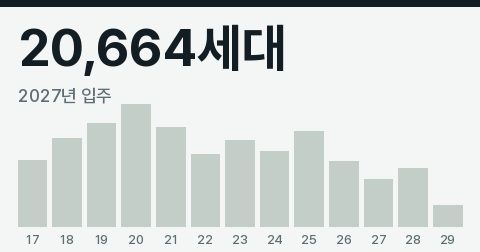
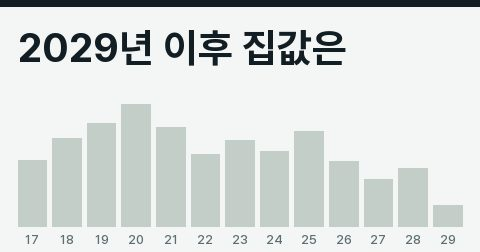
반박 썸네일을 인용구형으로 통일 — 그 섹션은 숫자를 쓰지 않는다
총괄 결정(10-30). 반박 4편 중 반도체 글만 제목에 따옴표가 없어 '20,664세대' 숫자형으로
떨어졌고, 나머지 셋은 인용구형이라 한 섹션 안에서 모양이 갈렸다. 따지는 글이라 발언이 먼저
보여야 하므로 반박 편은 늘 글자로 간다.

규칙은 thumb_caption 한 곳에 모았다. 제목에 따옴표 안 발언이 있으면 그것을 따옴표째, 없으면
쉼표 앞 구절을 따옴표 없이 같은 모양으로 넣는다. 앞 구절을 글자 수로만 자르면 '삼성·하이닉'
처럼 낱말이 토막 나므로 어절 경계에서 끊는다(LEAD_MAX 14자, 총괄은 12자 안팎을 말했다).

draw_thumb 은 cap 이 있으면 big 을 그리지 않는다 — 글자와 숫자가 한 그림에 섞이지 않게.

시험 하나로 고정했고 변이 셋으로 확인했다: 따옴표 없는 글을 다시 숫자로 떨어뜨리면, 앞 구절을
글자 수로 자르면, 인용에서 따옴표를 떼면 빨개진다.

diff --git a/home-stats.js b/home-stats.js
@@ -10,7 +10,7 @@
    도구·시험은 이 파일을 직접 열지 말고 tools/home_src.py 의 home_source() 로 읽는다(홈 스크립트에 이어 붙어 온다). */
 /* 판 표식 — home-app.js HOME_BUILD·sw.js VERSION 과 같은 값(test_home_build). 받은 뒤 홈이 견줘 다르면 한 번 새로고침한다
    (partBuildOk: 열어 둔 옛 판 탭이 배포 뒤 ?v=옛판 주소로 새 판 파일을 받는 경우). VERSION 을 올리면 여기도 같이. */
-var HOME_STATS_BUILD='v208';
+var HOME_STATS_BUILD='v209';
 /* 착공→준공 시차별 연결 강도(r) — rebuild_cycle_analysis.link45_leadtime 과 **같은 계산**(전국 착공·준공 12개월 이동평균,
    과거 = 2018.01 앞 착공, 최근 = 그 뒤)을 시차 20~50개월에 펼친 곡선. 봉우리(최강 시차)는 박지 않고 곡선에서 찾는다
    (leadPeak) — 예전엔 옛 분석값 peak_old [27,0.96] 을 따로 박아 같은 화면 주석(28개월)·정본과 갈렸다(전수리뷰 #50·#105).

diff --git a/sw.js b/sw.js
@@ -11,7 +11,7 @@
 // ⚠ 이 값은 홈의 **판 표식**이기도 하다(C11·MOB-9). 올리면 index.html 의 <html data-build> 와
 // home-app.js 의 HOME_BUILD, home-quiz.js 의 HOME_QUIZ_BUILD, home-stats.js 의 HOME_STATS_BUILD 도 같은 값으로 바꾼다
 // — 하나라도 다르면 test_home_build 가 빨개진다.
-const VERSION = 'v208'; // 상단 탭에서 사이클 분리 — /reports/ 기본 개념 줄로(2026-10-30)
+const VERSION = 'v209'; // 반박 썸네일을 인용구형으로 통일(2026-10-30)
 const CACHE = `agongmap-${VERSION}`;
 
 // 네트워크 우선 요청의 대기 한도(2026-09-15 점검 후속 ⑦). 느린 망에서 응답이 늦으면 캐시가

diff --git a/home-quiz.js b/home-quiz.js
@@ -8,7 +8,7 @@
    도구·시험은 이 파일을 직접 열지 말고 tools/home_src.py 의 home_source() 로 읽는다(홈 스크립트에 이어 붙어 온다). */
 /* 판 표식 — home-app.js HOME_BUILD·sw.js VERSION 과 같은 값(test_home_build). 받은 뒤 홈이 견줘 다르면 한 번 새로고침한다
    (partBuildOk: 열어 둔 옛 판 탭이 배포 뒤 ?v=옛판 주소로 새 판 파일을 받는 경우). VERSION 을 올리면 여기도 같이. */
-var HOME_QUIZ_BUILD='v208';
+var HOME_QUIZ_BUILD='v209';
 const QUIZSETS={
   beginner:{
     title:'부린이 테스트', emoji:'🐣',

diff --git a/home-app.js b/home-app.js
@@ -11,7 +11,7 @@
    새로고침 뒤 첫 부팅이 결과를 build_reload 로 한 번 잰다(현장에서 실제로 일어나는지 보려고).
    판 값은 sw.js 의 VERSION 과 같다 — VERSION 을 올리면 index.html data-build 와 여기, 분할 파일(home-quiz.js·home-stats.js)의
    판 표식도 같이(test_home_build). 분할 파일 쪽 대조는 아래 partBuildOk(B11). */
-const HOME_BUILD='v208';
+const HOME_BUILD='v209';
 let BUILD_RELOAD=false;
 (function(){
   try{

diff --git a/index.html b/index.html
@@ -1,5 +1,5 @@
 <!DOCTYPE html>
-<html lang="ko" data-build="v208">
+<html lang="ko" data-build="v209">
 <head>
 <meta charset="UTF-8">
 <!-- Google tag (gtag.js) — 홈만 지연 로딩한다(아래 ③). 순서가 곧 기능이다: ① → ② → ③. -->

diff --git a/tools/make_content_cards.py b/tools/make_content_cards.py
@@ -50,6 +50,7 @@ def thumb_rel(section, slug):
 
 
 QUOTE_MAX = 16           # 인용 한 줄의 글자 수 상한(총괄: 10자 안팎)
+LEAD_MAX = 14            # 따옴표가 없는 제목에서 뽑는 앞 구절의 상한(총괄: 12자 안팎)
 
 
 def _quote(title):
@@ -58,6 +59,39 @@ def _quote(title):
     for m in re.finditer(r"['\u2018\u2019\"\u201c\u201d]([^'\u2018\u2019\"\u201c\u201d]{3,%d})['\u2018\u2019\"\u201c\u201d]" % QUOTE_MAX, title):
         return m.group(1).strip()
     return None
+
+
+def _lead(title):
+    """따옴표가 없는 제목의 앞 구절. 쉼표 앞을 쓰되, 길면 **어절 경계**에서 끊는다.
+
+    글자 수로만 자르면 '삼성·하이닉' 처럼 낱말이 토막 난다. 어절을 모으다 상한을 넘기면 멈춘다.
+    """
+    head = (title or '').split(',')[0].strip()
+    if not head:
+        return None
+    if len(head) <= LEAD_MAX:
+        return head
+    out = []
+    for w in head.split():
+        if out and len(' '.join(out + [w])) > LEAD_MAX:
+            break
+        out.append(w)
+    return ' '.join(out) if out else head[:LEAD_MAX]
+
+
+def thumb_caption(title):
+    """반박 편 썸네일의 한 줄 → (글자, 따옴표를 두를지). 제목이 없으면 (None, False).
+
+    ⚠ 반박 편은 **늘 글자**다 — 숫자는 쓰지 않는다(총괄 결정 2026-10-30). 따지는 글이라 발언이 먼저
+       보여야 하고, 한 섹션 안에서 어떤 글은 숫자·어떤 글은 인용이면 목록이 들쭉날쭉해진다. 제목에
+       따옴표가 있으면 그 발언을 따옴표째, 없으면 제목 앞 구절을 따옴표 없이 같은 모양으로 넣는다.
+    """
+    if not title:
+        return None, False
+    q = _quote(title)
+    if q:
+        return q, True
+    return _lead(title), False
 
 
 def thumb_args(meta, body):
@@ -99,7 +133,7 @@ def _thumb_source(meta, body, data):
     return None, None
 
 
-def draw_thumb(spec, big=None, quote=None):
+def draw_thumb(spec, big=None, cap=None):
     """목록 그림 한 장(480×252). 제목은 넣지 않는다 — 목록에서 바로 옆에 있다.
 
     위쪽에 큰 숫자 하나(또는 발언 인용), 아래쪽에 연도별 입주 막대와 적정 기준선. 막대는 OG 카드·본문
@@ -111,10 +145,15 @@ def draw_thumb(spec, big=None, quote=None):
     d.rectangle([0, 0, W, 6], fill=ZC.INK)
     pad = 18
     top_h = 86
-    if quote:
-        f = ZC.fit_width('\u201c%s\u201d' % quote, W - pad * 2, hi=40, lo=20)
-        bb = d.textbbox((0, 0), '\u201c%s\u201d' % quote, font=f)
-        d.text((pad - bb[0], 30 - bb[1]), '\u201c%s\u201d' % quote, font=f, fill=ZC.INK)
+    # cap = (글자, 따옴표를 두를지). 반박 편이 쓴다(thumb_caption) — 그 섹션은 늘 글자이고 숫자를
+    # 그리지 않는다. 한 섹션 안에서 글자와 숫자가 섞이면 목록이 들쭉날쭉해진다(총괄 결정 2026-10-30).
+    text = None
+    if cap and cap[0]:
+        text = '\u201c%s\u201d' % cap[0] if cap[1] else cap[0]
+    if text:
+        f = ZC.fit_width(text, W - pad * 2, hi=40, lo=20)
+        bb = d.textbbox((0, 0), text, font=f)
+        d.text((pad - bb[0], 30 - bb[1]), text, font=f, fill=ZC.INK)
     elif big:
         val, lab = big
         f = ZC.fit_width(val, W - pad * 2, hi=52, lo=24)
@@ -308,7 +347,8 @@ def main(argv=None):
         if save(img, card_rel(sec, slug), {'title': title, 'chip': chip, 'lines': '\n'.join(lines)}):
             wrote += 1
         spec, big = _thumb_source(meta, body, data)
-        th = draw_thumb(spec, big, _quote(title) if sec == 'column' else None)
+        cap = thumb_caption(title) if sec == 'column' else None
+        th = draw_thumb(spec, None if cap else big, cap)
         if save_thumb(th, thumb_rel(sec, slug)):
             wrote += 1
         secs.add(sec)

diff --git a/tools/tests/test_content_pages.py b/tools/tests/test_content_pages.py
@@ -1242,3 +1242,42 @@ def test_cycle_page_lights_the_content_tab():
     assert nav, '사이클 페이지에 탭바가 없다'
     on = re.findall(r'<a class="nav-btn on"[^>]*href="([^"]+)"', nav.group(0))
     assert on == [N.HREF['reports']], '사이클 페이지가 켠 탭이 콘텐츠가 아니다: %s' % on
+
+
+def test_column_thumbnails_are_always_words_never_numbers():
+    """반박 편 썸네일은 **늘 글자**다 — 따옴표 안 발언, 없으면 제목 앞 구절(총괄 결정 2026-10-30).
+
+    왜: 한 섹션 안에서 어떤 글은 '20,664세대' 숫자형이고 어떤 글은 인용구형이면 목록이 들쭉날쭉해진다.
+    실제로 반박 4편 중 반도체 글만 제목에 따옴표가 없어 숫자로 떨어졌다. 따지는 글이라 발언이 먼저
+    보여야 하므로 숫자는 쓰지 않는다. 따옴표가 없는 제목은 쉼표 앞을 어절 경계에서 끊어 따옴표 없이 쓴다.
+
+    무엇을 바꾸면 빨개지나(셋 다 확인): 따옴표 없는 글을 다시 숫자로 떨어뜨리면, 앞 구절을 글자 수로
+      잘라 낱말이 토막 나면, 인용에서 따옴표를 떼면.
+    픽스처: 저장소의 실제 반박 원고 제목과, 어절 경계를 재려고 손으로 지은 긴 제목.
+    """
+    import make_content_cards as CC
+    seen = 0
+    for sec, slug, path in CM.posts(ROOT):
+        if sec != 'column':
+            continue
+        meta, _ = CM.read(path, sec, slug)
+        text, quoted = CC.thumb_caption(meta['title'])
+        assert text, '%s: 썸네일에 넣을 글자가 없다' % slug
+        assert len(text) <= max(CC.QUOTE_MAX, CC.LEAD_MAX), '%s: 캡션이 너무 길다(%r)' % (slug, text)
+        if quoted:
+            assert text in meta['title'], '%s: 인용이 제목에 없는 말이다' % slug
+        else:
+            assert meta['title'].startswith(text), '%s: 앞 구절이 제목 머리와 다르다(%r)' % (slug, text)
+        seen += 1
+    assert seen >= 3, '반박 글을 %d편밖에 못 봤다' % seen
+
+    # 앞 구절은 어절 경계에서 끊는다 — 글자 수로 자르면 낱말이 토막 난다.
+    long_title = '2029년 이후 집값은 삼성·하이닉스가 정할까, 공급이 먼저 정합니다'
+    text, quoted = CC.thumb_caption(long_title)
+    assert not quoted and long_title.startswith(text)
+    assert ' '.join(text.split()) == text and not text.endswith(' ')
+    assert all(w in long_title.split(',')[0].split() for w in text.split()), \
+        '낱말이 토막 났다: %r' % text
+    # 따옴표가 있으면 그 발언을 따옴표째 쓴다.
+    assert CC.thumb_caption("오세훈 시장의 '주택의 삭제', 서울은") == ('주택의 삭제', True)
+    assert CC.thumb_caption('') == (None, False)
